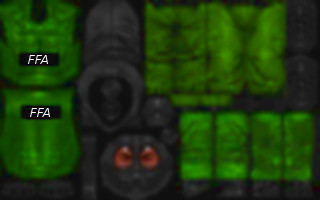
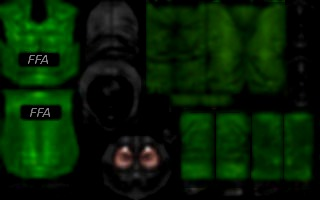
show faulty playerstarts as yellow players

diff --git a/source/src/entities.cpp b/source/src/entities.cpp
@@ -260,7 +260,8 @@ void renderentities()
                 {
                     case 0: skin = "packages/models/playermodels/CLA/red.jpg"; break;
                     case 1: skin = "packages/models/playermodels/RVSF/blue.jpg"; break;
-                    default: skin = "packages/models/playermodels/ffaspawn.jpg"; break;
+                    case 100: skin = "packages/models/playermodels/ffaspawn.jpg"; break;
+                    default: skin = "packages/models/playermodels/unknownspawn.jpg"; break;
                 }
                 rendermodel("playermodels", ANIM_IDLE, -(int)textureload(skin)->id, 1.5f, o, 0, e.attr1 / ENTSCALE10 + 90, 0);
             }
